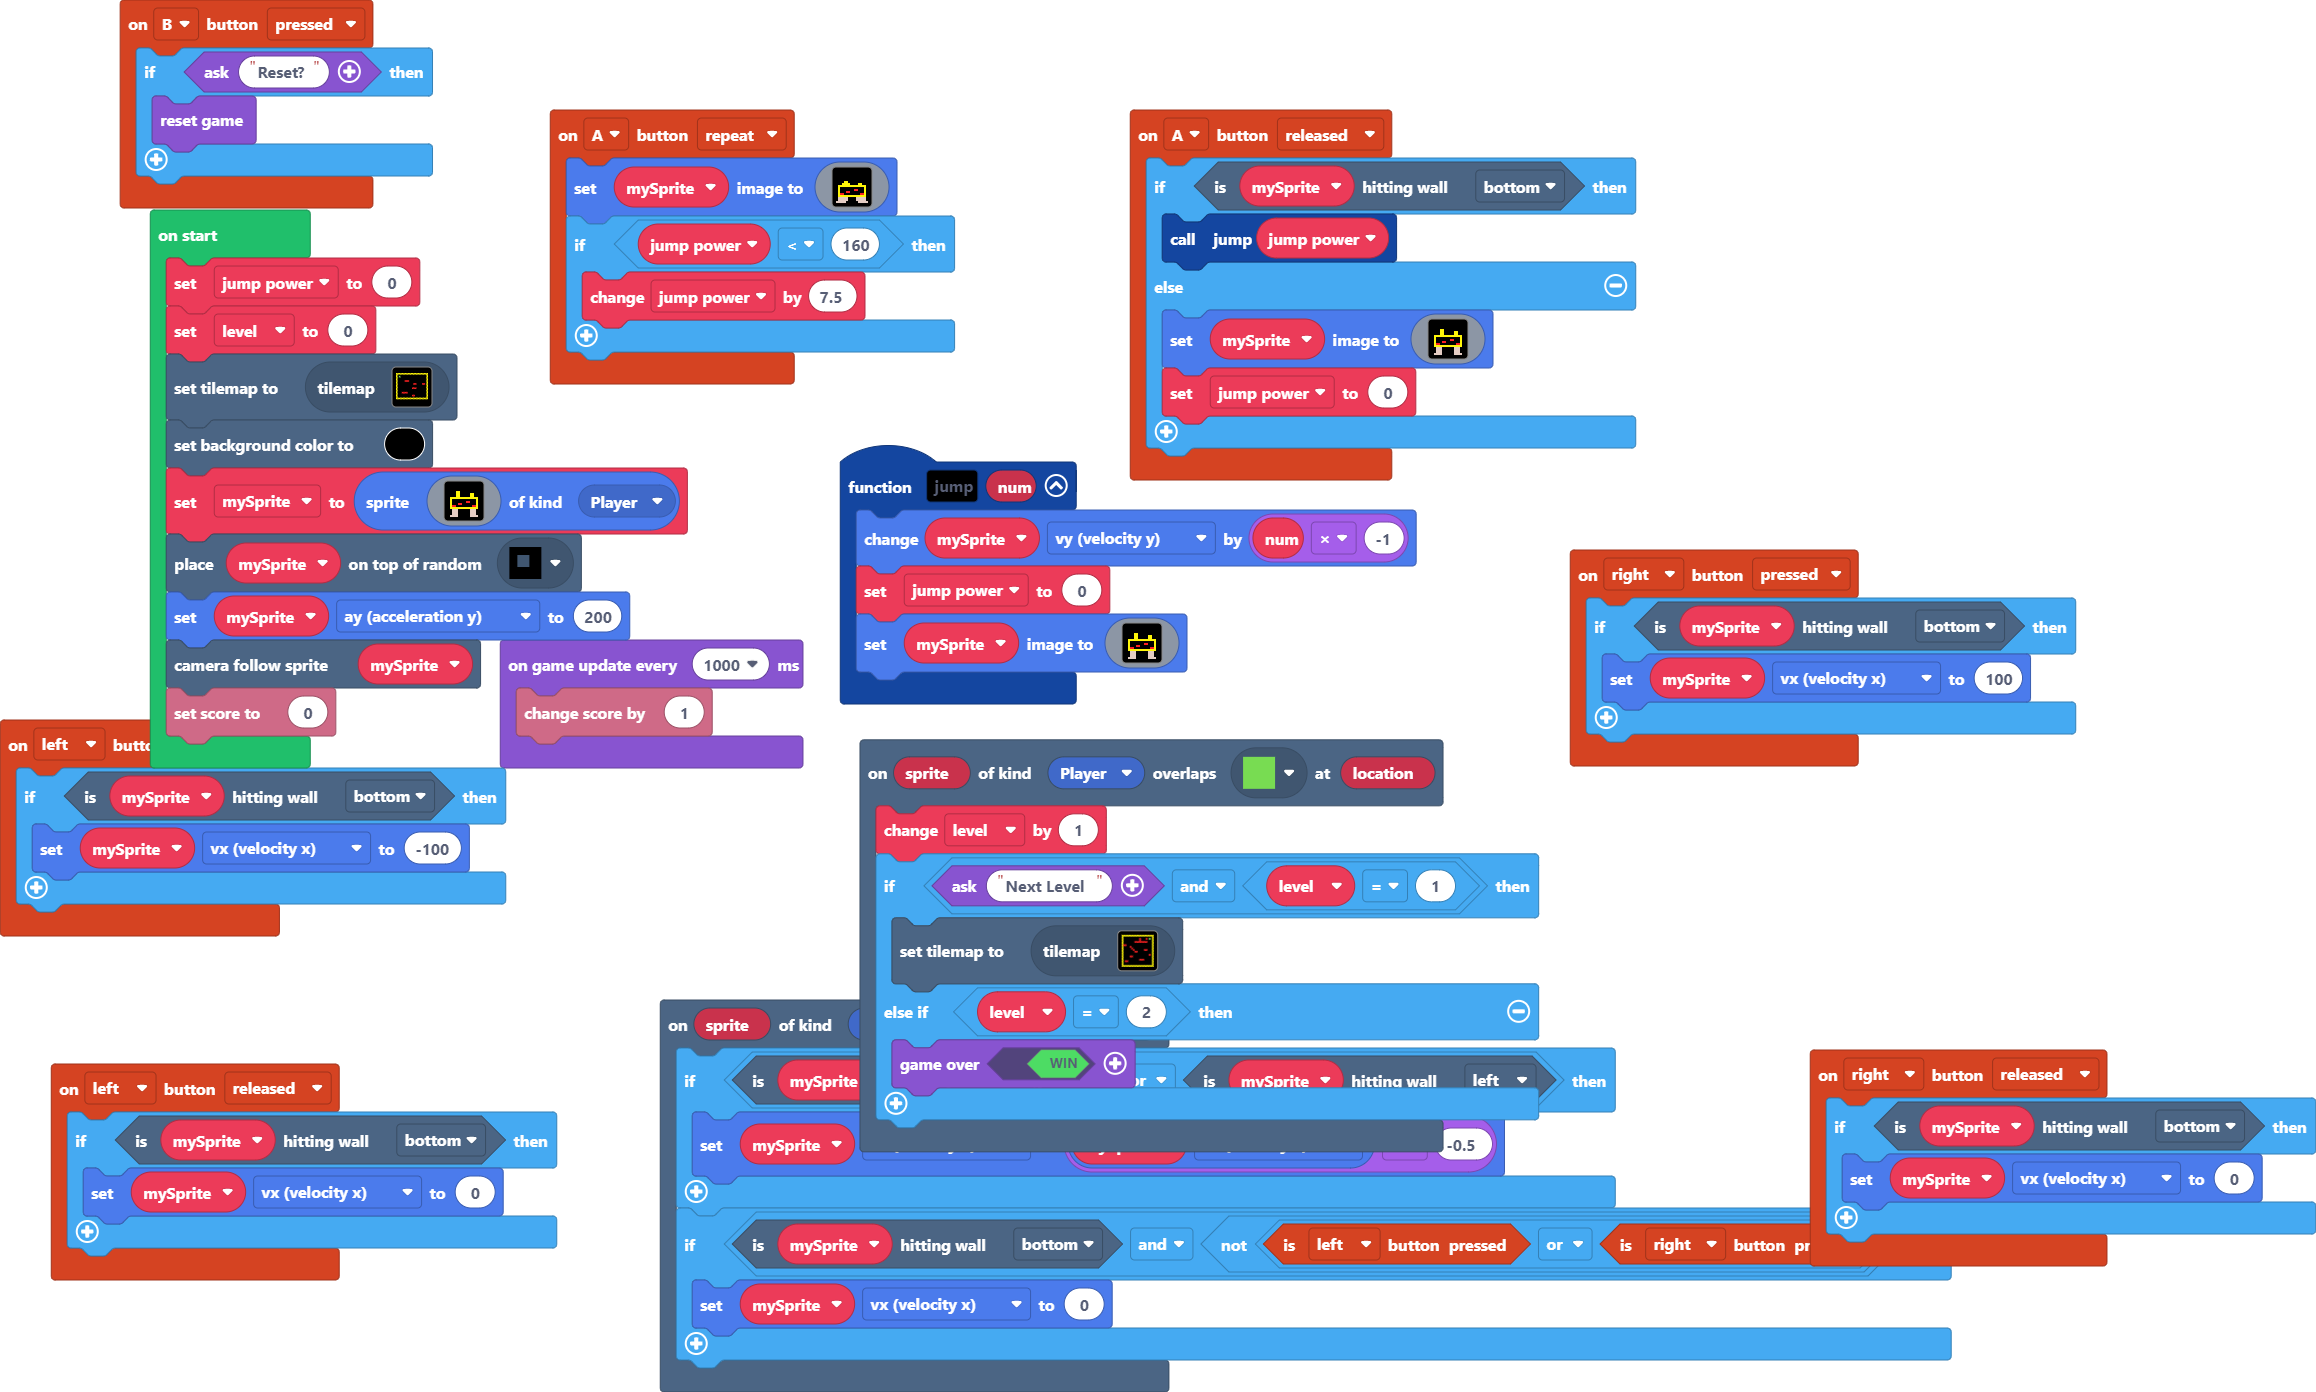
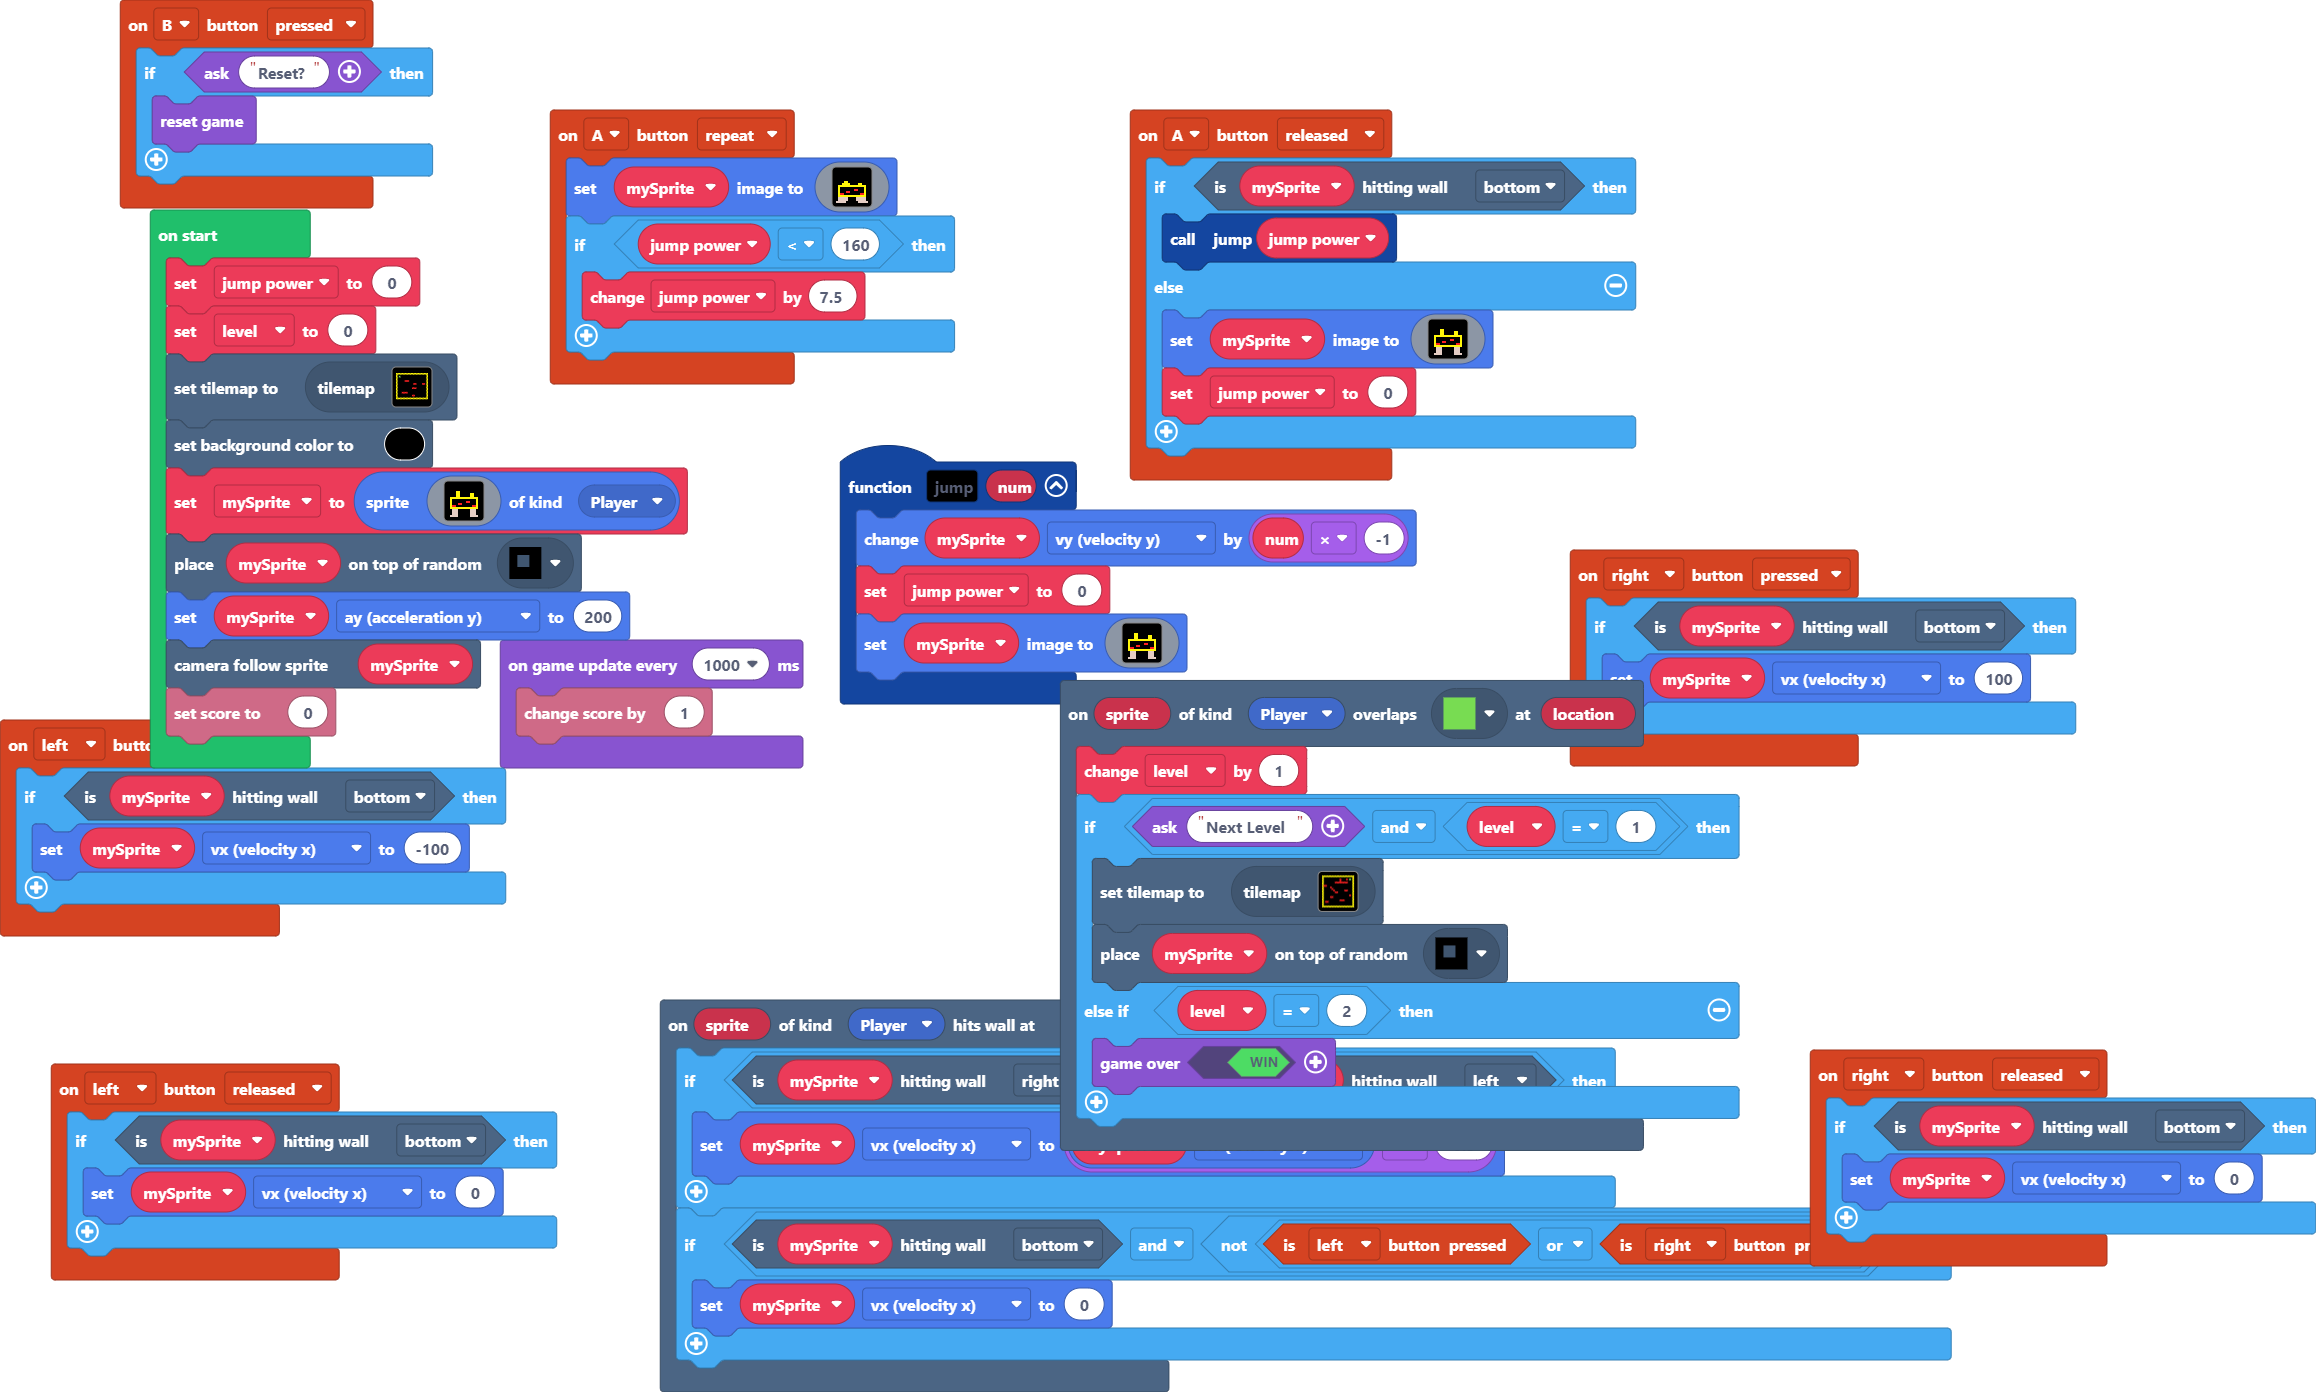
Update main.blocks, main.ts

diff --git a/main.ts b/main.ts
@@ -15,6 +15,7 @@ scene.onOverlapTile(SpriteKind.Player, assets.tile`myTile4`, function (sprite, l
     level += 1
     if (game.ask("Next Level") && level == 1) {
         tiles.setCurrentTilemap(tilemap`level5`)
+        tiles.placeOnRandomTile(mySprite, assets.tile`spawn block`)
     } else if (level == 2) {
         game.over(true)
     }
